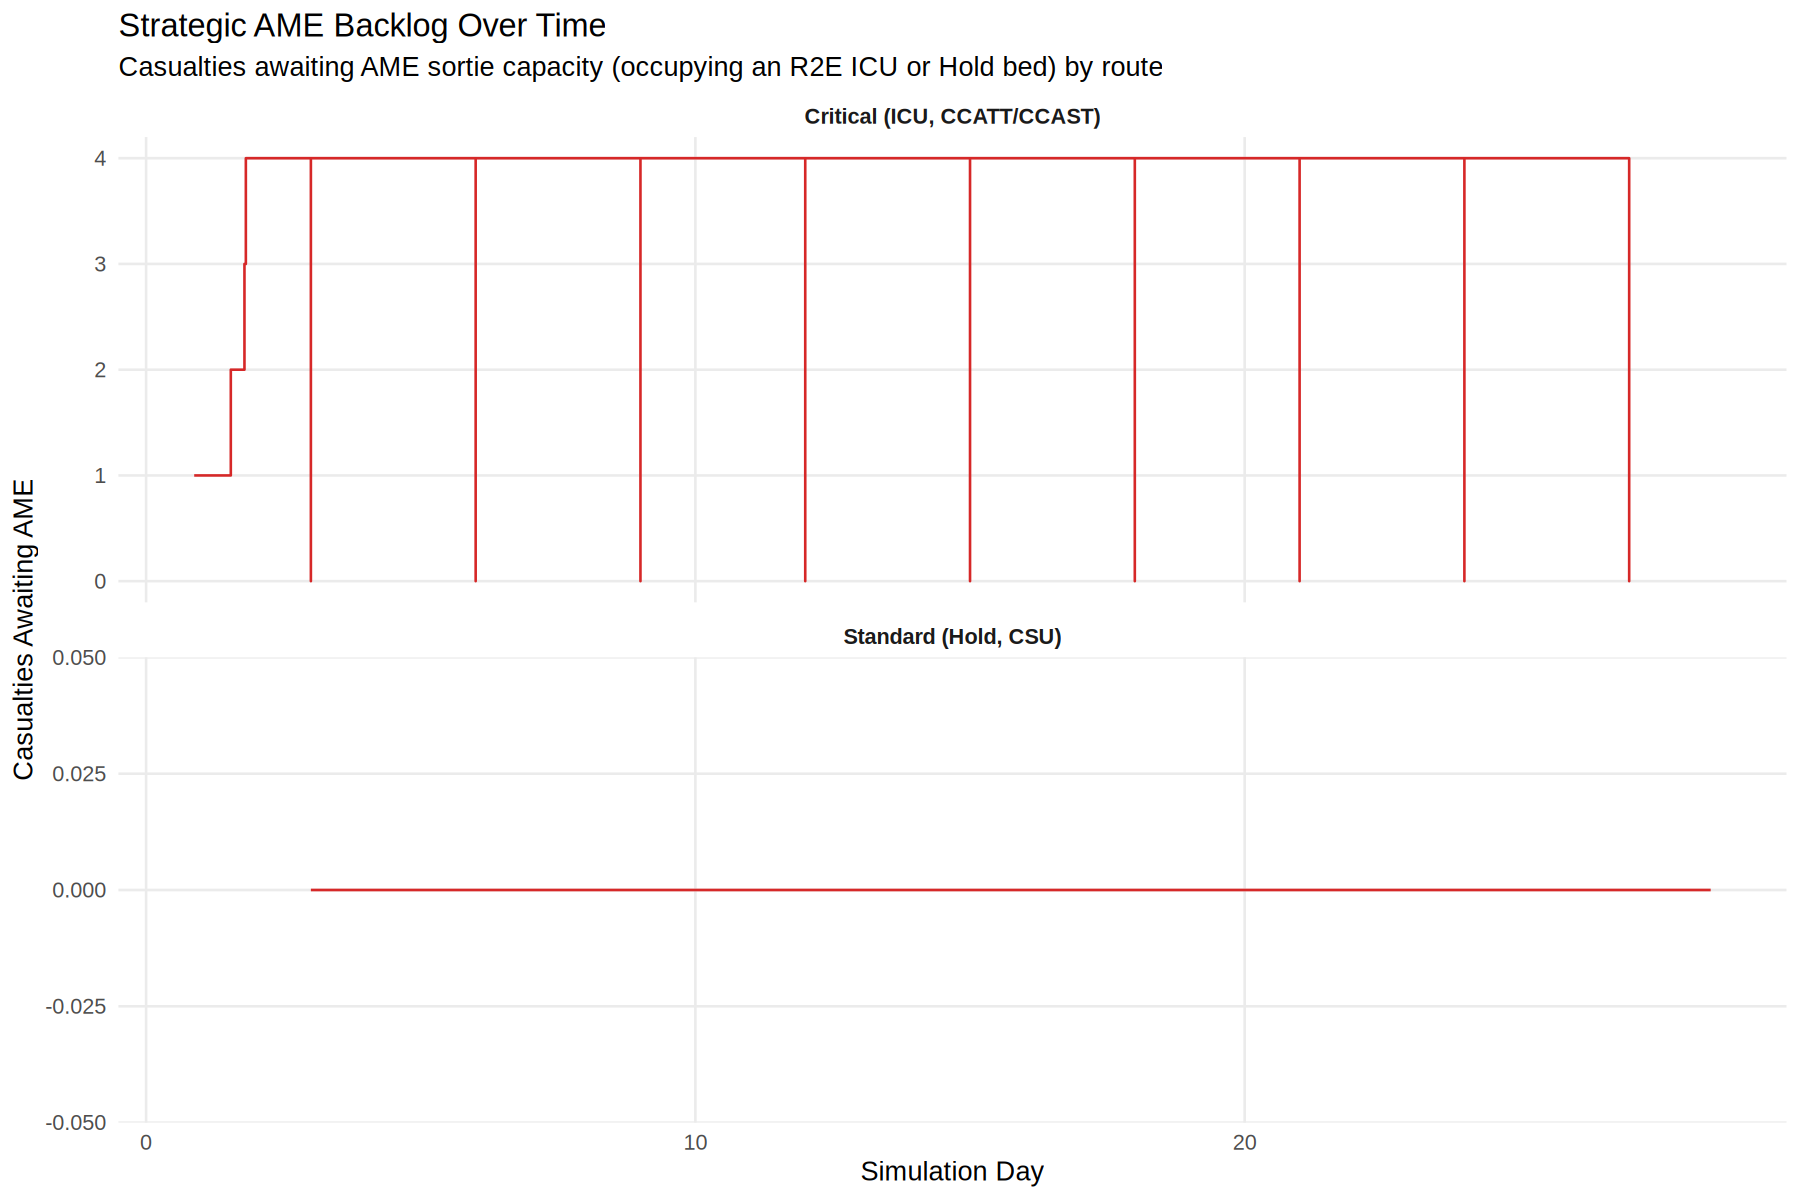
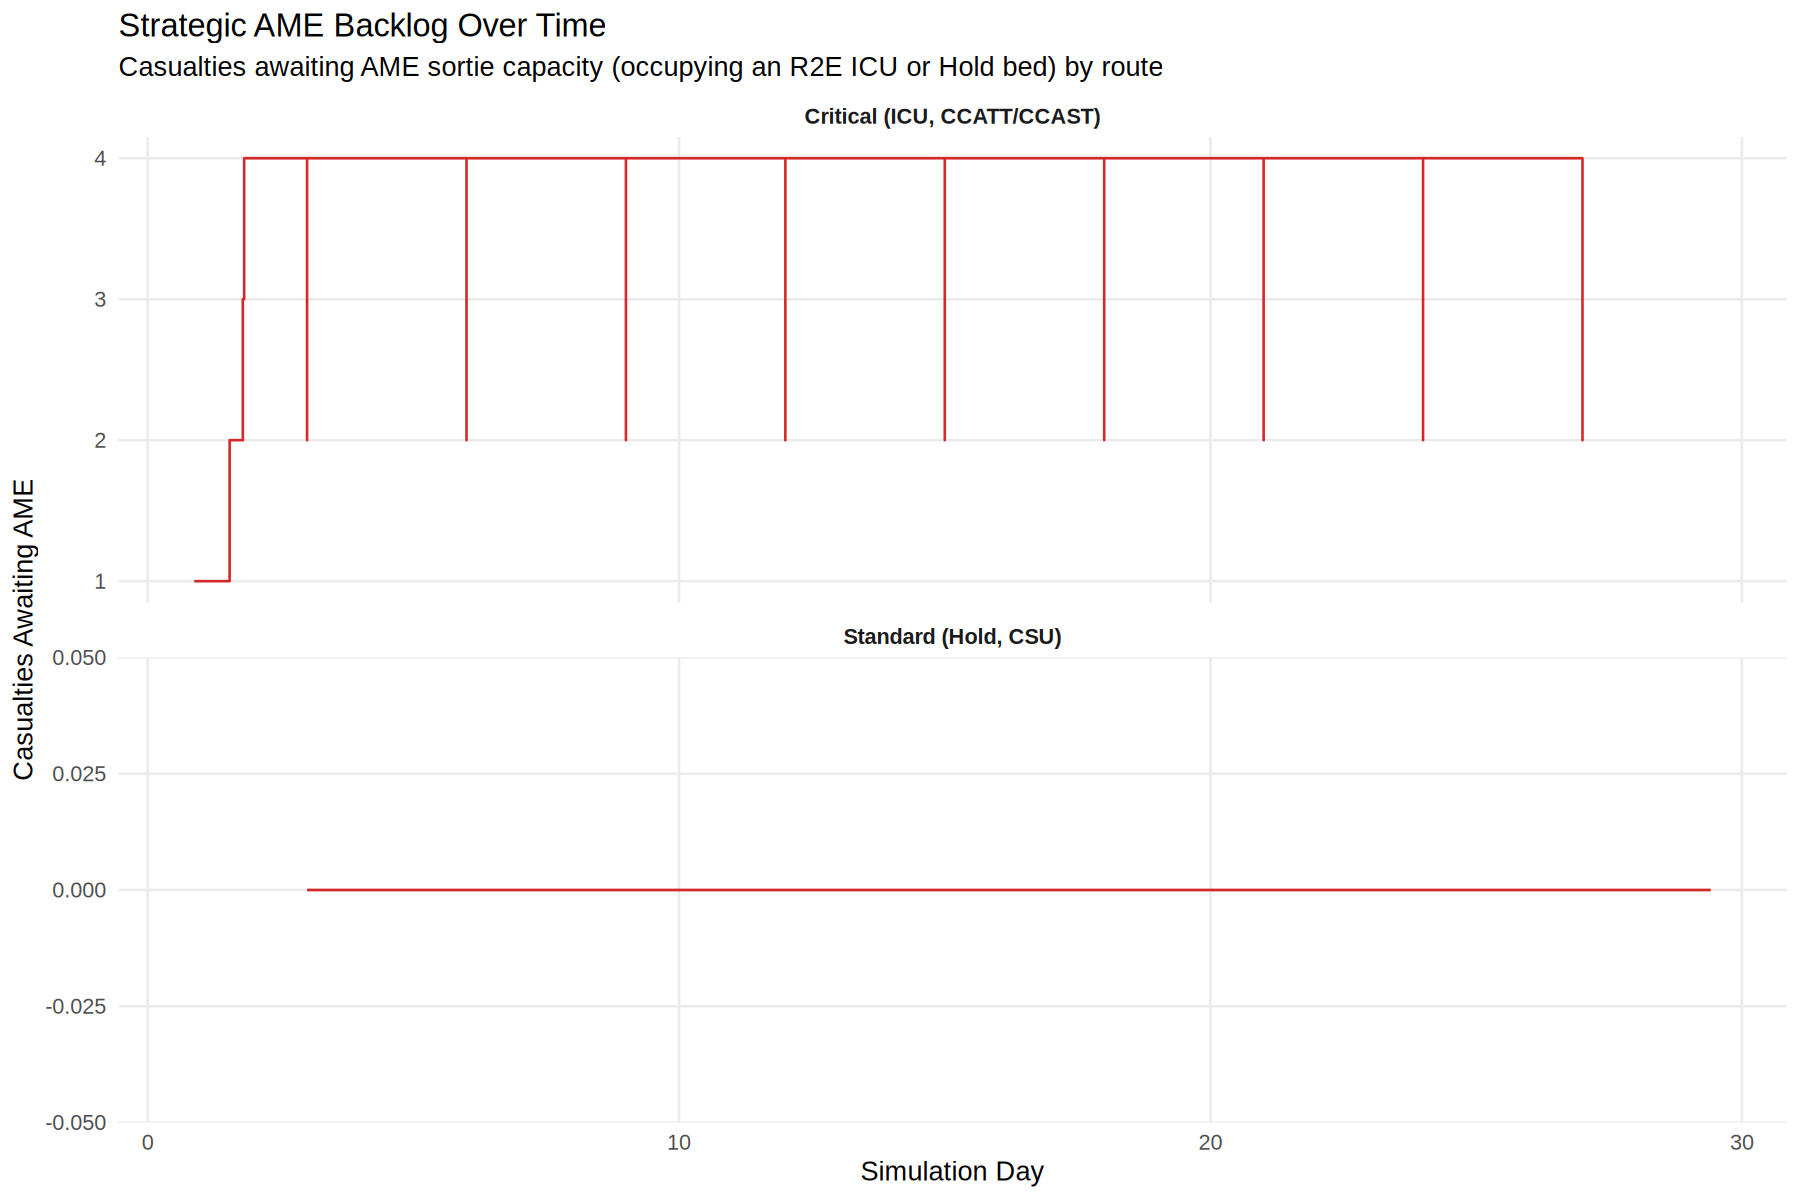
feat(issue-23): select AME aircraft configuration by backlog-minimising rule
Replaces the fixed critical/standard capacity pair with two planner-named
aircraft configurations (env_data.json vars.role4.ame_config_a/ame_config_b),
each a {critical_capacity, standard_capacity} loadout. At each scheduled
sortie, select_ame_configuration() (R/trajectories.R) flies whichever
configuration minimises total casualties left queued across both pools,
reflecting that a real sortie flies one fixed loadout rather than
independently filling both pools every time.

Exposed as four fields in the Shiny Strategic AME panel and shown on the
Medevac Chain diagram ("A=x/B=y" per leg). Seed-42 finding: Configuration A
(2 critical/8 standard) is selected at nearly every opportunity, since the
standard pool rarely backs up — this gives the critical pool a lower real
throughput (2/sortie) than the fixed single-pool design it replaced
(4/sortie), lengthening the critical-pool mean wait from 7.2 to 11.5 days.
README, Limitation L17, and Further Development updated accordingly.

Not RNG-stream-neutral: the changed capacity values alter R2E bed
occupancy timing and cascade into every subsequent draw.

diff --git a/README.md b/README.md
@@ -1448,7 +1448,9 @@ R2E has no physical Surgical Ward or General Ward bed type — only ICU and Hold
 > **Uncertainty:** High
 > **Consequence if wrong:** Peak Role 4 occupancy and total bed-days scale roughly linearly with the LoS parameters; an error in the mode values directly biases the peak occupancy estimate reported to national planners, but does not affect any theatre-level (R1/R2B/R2E) output, since Role 4 census is computed downstream of, and independent from, all in-theatre simulation logic.
 
-**Strategic AME resource — two pools sharing one schedule.** AME is available only at scheduled sortie opportunities, every `vars.role4.ame.schedule_interval_days` days (`build_ame_sortie_trajectory()`, driven by its own generator in `run_once()`, `R/replication.R`); at each opportunity the sortie is cancelled with probability `vars.role4.ame.failure_probability`. If it flies, capacity is added to *two* simmer resources at once: `"ame"` (standard, `vars.role4.ame.standard_capacity_per_sortie`) and `"ame_critical"` (`vars.role4.ame.critical_capacity_per_sortie`, a smaller pool). Casualties are routed to exactly one pool by the same acuity split that determines their R2E holding bed (see the table above): Priority 1 surgical evacuees hold an ICU bed and queue on `"ame_critical"`; everyone else holds a Hold bed and queues on `"ame"`. Both pools queue FIFO by decision order and are admitted as soon as their own pool has capacity.
+**Strategic AME resource — two pools, two aircraft configurations, one schedule.** AME is available only at scheduled sortie opportunities, every `vars.role4.ame.schedule_interval_days` days (`build_ame_sortie_trajectory()`, driven by its own generator in `run_once()`, `R/replication.R`); at each opportunity the sortie is cancelled with probability `vars.role4.ame.failure_probability`. If it flies, the planner-defined "Configuration A" (`vars.role4.ame_config_a`) or "Configuration B" (`vars.role4.ame_config_b`) — each a fixed `{critical_capacity, standard_capacity}` pair — is selected and its capacity added to the corresponding simmer resource: `"ame"` (standard) and `"ame_critical"` (critical, CCATT/CCAST-supported). Casualties are routed to exactly one pool by the same acuity split that determines their R2E holding bed (see the table above): Priority 1 surgical evacuees hold an ICU bed and queue on `"ame_critical"`; everyone else holds a Hold bed and queues on `"ame"`. Both pools queue FIFO by decision order and are admitted as soon as their own pool has capacity.
+
+**Configuration selection (Issue #23 second follow-up).** A real AME sortie flies one fixed loadout, not an arbitrary capacity pair on each pool independently — a CCATT/CCAST-augmented aircraft trades standard litter/seat slots for critical-care equipment and crew on the same airframe, so the planner defines exactly two named configurations rather than two independently-filling pools. At each scheduled opportunity, `select_ame_configuration()` (`build_ame_sortie_trajectory()`, `R/trajectories.R`) computes, for each configuration, the total casualties that would remain queued after that configuration's capacity is applied to both pools (`unmet = max(0, queue("ame_critical") - critical_capacity) + max(0, queue("ame") - standard_capacity)`), and flies whichever configuration minimises this total (ties favour Configuration A).
 
 This two-pool design, and the choice of which casualties use which bed/pool, is grounded directly in AJP-4.10(B) [[21]](#References), not an arbitrary split:
 
@@ -1457,10 +1459,15 @@ This two-pool design, and the choice of which casualties use which bed/pool, is 
 > **Uncertainty:** Medium — the CSU/CCATT-CCAST distinction itself is well-sourced; which of this model's existing patient categories maps to "already stabilised" vs "still warrants critical care" is an informed judgement (P1-surgical-only), since AJP-4.10(B) does not define that mapping in clinical-priority terms.
 > **Consequence if wrong:** If the true stabilised/critical split is narrower than "all P1 surgical" (e.g. only a subset of P1 surgical evacuees genuinely need in-transit critical care), this model overstates both ICU bed contention with post-operative recovery (Limitation L17) and critical-pool AME backlog; if broader (e.g. some P1 non-surgical or P2 evacuees also warrant it), the model understates both.
 
-> **MODEL ASSUMPTION — AME Schedule Interval, Failure Probability, and Pool Capacity Defaults:** The shipped defaults are a sortie every 3 days (`schedule_interval_days = 3`) with a 15% cancellation probability (`failure_probability = 0.15`), 20 standard-pool casualties per successful sortie (`standard_capacity_per_sortie`), and 4 critical-pool casualties per successful sortie (`critical_capacity_per_sortie`).
-> **Basis:** Informed estimation. AJP-4.10(B) [[21]](#References) establishes strategic AME, CSU staging, and CCATT/CCAST augmentation as planning functions without prescribing a specific cadence, failure rate, or per-sortie patient count for either pool — actual tasking frequency, weather/airframe cancellation rates, and CCATT/CCAST team availability are platform-, theatre-, and campaign-specific and not tabulated in any open-access source identified for this model. The critical pool is set at a fifth of the standard pool's size, reflecting that CCATT/CCAST teams are a scarcer augmentation to the standard crew rather than a like-for-like capacity, but no source quantifies the actual ratio.
+> **MODEL ASSUMPTION — AME Schedule Interval, Failure Probability, and Configuration Defaults:** The shipped defaults are a sortie every 3 days (`schedule_interval_days = 3`) with a 15% cancellation probability (`failure_probability = 0.15`), Configuration A = 2 critical/8 standard casualties per successful sortie (`ame_config_a`), and Configuration B = 0 critical/20 standard casualties per successful sortie (`ame_config_b`).
+> **Basis:** Informed estimation. AJP-4.10(B) [[21]](#References) establishes strategic AME, CSU staging, and CCATT/CCAST augmentation as planning functions without prescribing a specific cadence, failure rate, or per-sortie patient count for either configuration — actual tasking frequency, weather/airframe cancellation rates, and CCATT/CCAST team availability are platform-, theatre-, and campaign-specific and not tabulated in any open-access source identified for this model. Configuration A's critical capacity is set at a quarter of its standard capacity, reflecting that a CCATT/CCAST team is a scarcer augmentation to the standard crew rather than a like-for-like capacity, but no source quantifies the actual ratio or the total-seat trade-off between configurations.
 > **Uncertainty:** High
-> **Consequence if wrong:** The schedule interval and failure probability jointly determine both pools' backlog scale; the critical/standard capacity ratio specifically determines how much of any backlog concentrates in the critical (ICU-bed-holding) pool versus the standard pool — see the seed-42 results below, where this ratio is the direct cause of a sustained critical-pool backlog against an essentially unconstrained standard pool.
+> **Consequence if wrong:** The schedule interval and failure probability jointly determine both pools' backlog scale; the two configurations' capacity values, together with the selection rule below, determine how much of any backlog concentrates in the critical (ICU-bed-holding) pool versus the standard pool — see the seed-42 results below, where Configuration A is selected at nearly every opportunity, giving the critical pool a *lower* per-sortie throughput (2) than the single-pool design this replaced (4), and materially lengthening the critical-pool backlog as a result.
+
+> **MODEL ASSUMPTION — AME Configuration Selection Rule (Minimise Total Unmet Need):** At each scheduled sortie opportunity, the simulation flies whichever of the two planner-defined configurations leaves fewer casualties queued in total across both pools, rather than a rule proportional to either pool's backlog share or a fixed rotation between configurations.
+> **Basis:** Informed design choice, confirmed with the project owner (Issue #23 second follow-up) in preference to two alternatives considered — a backlog-proportional rule (fly whichever configuration allocates more capacity to the currently larger of the two backlogs) and a critical-priority threshold rule (always fly the critical-capable configuration while any critical casualty is queued, deferring to backlog size only once the critical queue is empty). No open-access AJP-4.10(B) or FORECAS material specifies a tasking-priority algorithm at this level of detail; the chosen rule was selected for being the most defensible throughput-based, single well-defined optimum among the alternatives.
+> **Uncertainty:** Medium — the rule itself is unambiguous and deterministic, but its emergent behaviour at the shipped configuration values is a genuine finding, not a design target: because the standard pool rarely backs up (its capacity comfortably exceeds demand under either configuration), `unmet(Configuration A)` is smaller than `unmet(Configuration B)` in almost every case where any critical casualty is queued, so Configuration A is selected at nearly every opportunity — the model does not evenly alternate between configurations the way "aircraft configuration selection" might suggest.
+> **Consequence if wrong:** A backlog-proportional or critical-priority rule would likely select Configuration A even more consistently (both bias toward flying critical capacity whenever any critical backlog exists), so this is not the more consequential choice; the shipped configuration *capacity values* (above) — not the selection rule — are the larger source of uncertainty, since Configuration A's 2-critical-seat throughput being lower than the single-pool design's fixed 4-per-sortie is what drives the longer critical-pool wait documented below.
 
 > **MODEL ASSUMPTION — AME Capacity Banking:** Unclaimed capacity from an under-subscribed sortie is not lost — it persists on the relevant pool and can be claimed by a later arrival, including between scheduled sorties, rather than being wasted the way a real aircraft's empty seats would be once it departs.
 > **Basis:** Engineering necessity, not a doctrinal claim. Casualties who board AME never release the resource (permanent consumption, matching a one-way strategic evacuation), so `"server"` (casualties ever admitted) is monotonically non-decreasing for the whole run, on both pools. Setting capacity to an *absolute* value at each sortie (rather than adding to it) would cap total-ever-admitted at that value the first time the server count reaches it — the resource would never "reopen" for a later sortie, which was caught as a bug during this section's own verification (see the test plan). Additive capacity is the only mechanism compatible with never-release semantics.
@@ -1472,7 +1479,7 @@ This two-pool design, and the choice of which casualties use which bed/pool, is 
 > **Uncertainty:** Medium — lower than the original single-pool design, since the split itself now captures the main acuity distinction doctrine describes.
 > **Consequence if wrong:** Any further within-pool prioritisation (e.g. by wait time already accrued, or by finer clinical grading) would redistribute wait time within a pool without changing that pool's aggregate throughput or backlog.
 
-**Unconstrained-baseline AME demand.** `compute_ame_demand()` (`R/analysis.R`) is retained as a separate, deliberately *unconstrained* comparison against combined standard + critical throughput: `sorties_required = ceiling(daily_evacuation_count / (standard_capacity_per_sortie + critical_capacity_per_sortie))`, grouped by `evacuation_decision_day` (not the schedule-gated `evacuation_day`) — i.e. "how many sorties would same-day, uncapped AME need to clear each day's decisions," without distinguishing pool. Comparing this single aggregate baseline against the real constrained resources' actual, route-decomposed throughput (`ame_wait_time_summary`, `ame_backlog_plot` — see Domain 7 below) is what makes each pool's adequacy (or inadequacy) visible — including cases like the seed-42 baseline where the aggregate baseline looks entirely reasonable while one pool is badly saturated.
+**Unconstrained-baseline AME demand.** `compute_ame_demand()` (`R/analysis.R`) is retained as a separate, deliberately *unconstrained* comparison against the larger of the two configurations' combined standard + critical throughput: `sorties_required = ceiling(daily_evacuation_count / max(config_a_total, config_b_total))`, grouped by `evacuation_decision_day` (not the schedule-gated `evacuation_day`) — i.e. "how many sorties would same-day, uncapped, best-case AME need to clear each day's decisions," without distinguishing pool or which configuration actually flew. Comparing this single aggregate baseline against the real constrained resources' actual, route-decomposed throughput (`ame_wait_time_summary`, `ame_backlog_plot` — see Domain 7 below) is what makes each pool's adequacy (or inadequacy) visible — including cases like the seed-42 baseline where the aggregate baseline looks entirely reasonable while one pool is badly saturated.
 
 **Multi-run aggregation.** When `analyse_run()` is called with multi-replication monitoring data (Issue #1 framework), peak Role 4 occupancy and the unconstrained-baseline total sortie count are additionally summarised as mean ± 95% CI across replications (`role4_replication_summary`, `ame_replication_summary`), using the same t-distribution CI convention as `summarise_replications()` (`R/replication.R`).
 
@@ -1604,7 +1611,7 @@ The simulation produces a defined set of Key Performance Indicators (KPIs) organ
 > Daily and cumulative strategic aeromedical evacuation sortie requirements *if* AME had same-day, uncapped capacity — a theoretical comparison baseline, not a prediction of actual throughput (see the real constrained-resource outputs below).
 > **Doctrinal basis:** AJP-4.10 [[21]](#References) strategic evacuation planning function.
 > **Criteria:** C2, C4, C5
-> **Computation:** `sorties_required = ceiling(daily_evacuation_count / ame_capacity)` grouped by `evacuation_decision_day`, where `ame_capacity` is combined standard + critical throughput (`env_data$vars$role4$ame$standard_capacity_per_sortie + critical_capacity_per_sortie`); `cumulative_sorties = cumsum(sorties_required)`.
+> **Computation:** `sorties_required = ceiling(daily_evacuation_count / ame_capacity)` grouped by `evacuation_decision_day`, where `ame_capacity` is the larger of the two configurations' combined standard + critical throughput (`max(ame_config_a$critical_capacity + ame_config_a$standard_capacity, ame_config_b$critical_capacity + ame_config_b$standard_capacity)`); `cumulative_sorties = cumsum(sorties_required)`.
 > **Note:** A derived planning metric, not a simulated resource constraint.
 
 > **MODEL OUTPUT — Strategic AME Wait Time (by Route):**
@@ -1859,23 +1866,25 @@ At `high_intensity` casualty rates, the mechanism is unambiguous: daily volume f
 
 ### Strategic Evacuation and Role 4 Demand
 
-This section presents the seed-42 30-day single-run Role 4 (national support base) and strategic AME outputs (Issue #23 and its follow-ups; see [Role 4 (National Support Base) Demand Modelling](#role-4-national-support-base-demand-modelling)). Of the 387 total casualties generated, 126 reached the strategic evacuation decision (`r2e_evac = 1`); of those, 75 had actually boarded an AME sortie and reached Role 4 by the end of the 30-day run, with 51 still queued and occupying an R2E bed.
+This section presents the seed-42 30-day single-run Role 4 (national support base) and strategic AME outputs, under the two-configuration AME sortie model (Issue #23 and its follow-ups; see [Role 4 (National Support Base) Demand Modelling](#role-4-national-support-base-demand-modelling)). Of the 385 total casualties generated, 134 reached the strategic evacuation decision (`r2e_evac = 1`); of those, 63 had actually boarded an AME sortie and reached Role 4 by the end of the 30-day run, with 71 still queued and occupying an R2E bed.
 
 ![Role 4 (National Support Base) Daily Bed Occupancy by Ward](images/role4_census.png)
 
-Daily Role 4 bed occupancy rises through the engagement window, reaching a peak of 42 concurrent patients (all wards combined) on day 29, and — unlike a fully-cleared run — has not yet decayed to zero within the window shown, since a substantial share of demand (the critical-route ICU population) is still backlogged at R2E rather than having reached Role 4 at all; the long tail out to ~day 57 reflects the trickle of critical-route casualties who do eventually board, each carrying their own subsequent Role 4 length of stay.
+Daily Role 4 bed occupancy rises through the engagement window, reaching a peak of 27.0 concurrent patients (all wards combined) on day 22, and — unlike a fully-cleared run — has not yet decayed to zero within the window shown, since a substantial share of demand (the critical-route ICU population) is still backlogged at R2E rather than having reached Role 4 at all.
 
 ![Strategic AME Backlog Over Time by Route](images/ame_backlog.png)
 
-The two-pool split (see [Role 4 (National Support Base) Demand Modelling](#role-4-national-support-base-demand-modelling)) reveals a result the earlier single-pool model could not: **demand is comfortably met on the standard pool and persistently unmet on the critical pool.** Of the 126 evacuation decisions, 87 route to the critical (Priority 1 surgical) pool and 39 to the standard pool. Standard-pool wait is effectively zero (mean 0.0 days, all 39 evacuated with no backlog ever forming) — the shipped 20-casualty standard capacity, refreshed every ~3.5 successful sorties (9 of 10 scheduled opportunities flew at the 15% failure rate) against 39 total demand, clears almost immediately and then banks ahead of demand for the rest of the run (see MODEL ASSUMPTION — AME Capacity Banking). The critical pool tells the opposite story: only 36 of 87 decisions had boarded by day 30 (51 still waiting), mean wait among those who did board was 7.2 days (p10–p90: 2.8–11.7 days), and the backlog plot above shows the critical pool pinned at its 4-casualty capacity ceiling for nearly the entire run, clearing briefly only right after a successful sortie before refilling. The unconstrained theoretical baseline — same-day, uncapped AME at combined 24-casualty capacity — would have needed only 30 total sorties across the whole run; the real schedule flew 9 sorties, i.e. aggregate capacity (9 × 24 = 216) vastly exceeds aggregate demand (126), yet a real bottleneck persists entirely because of how that capacity is split between the two pools. This is the direct, intended payoff of decomposing AME by route rather than reporting one aggregate throughput figure.
+The two-pool split (see [Role 4 (National Support Base) Demand Modelling](#role-4-national-support-base-demand-modelling)) reveals a result an undifferentiated pool could not: **demand is comfortably met on the standard pool and persistently unmet on the critical pool.** Of the 134 evacuation decisions, 89 route to the critical (Priority 1 surgical) pool and 45 to the standard pool. Standard-pool wait is effectively zero (mean 0.0 days, all 45 evacuated with no backlog ever forming) — the shipped configurations both carry substantial standard capacity (8 or 20 per sortie) against 45 total demand, so it clears almost immediately and then banks ahead of demand for the rest of the run (see MODEL ASSUMPTION — AME Capacity Banking). The critical pool tells the opposite story: only 18 of 89 decisions had boarded by day 30 (71 still waiting), mean wait among those who did board was 11.5 days (p10–p90: 3.6–19.0 days).
 
-A second, non-obvious effect of the two-pool model: because critical-pool-awaiting casualties hold a real R2E ICU bed for as long as 7+ days on average, they compete directly with R2E's own post-operative ICU recovery population for the same finite bed pool (Issue #43's OT–ICU gating). At the seed-42 baseline this pushes R2E's post-operative pathway split sharply toward the hold-bed override path: `hold=91`, `icu=4` (compare to the documented pre-follow-up baseline in `CLAUDE.md`: `icu=110`, `hold=14`) — with the sustained critical-pool backlog occupying nearly all available ICU beds, almost no post-operative patient can complete the nominal ICU recovery pathway, and 30 surgeries were deferred pending ICU availability against a pre-follow-up baseline of essentially none. See the note below on why this is not a regression, and Limitation L17 for the systemic-coupling consequence.
+The configuration-selection mechanism (see MODEL ASSUMPTION — AME Configuration Selection Rule) is directly responsible for this result, and is itself the most important finding of this follow-up: `select_ame_configuration()` chose **Configuration A (2 critical/8 standard) at essentially every one of the 9 successful sorties**, because the standard pool's backlog never exceeds 8 (so `unmet(A)` and `unmet(B)` are equal on the standard term) while the critical pool's backlog is persistently positive (so `unmet(A) < unmet(B)` by exactly 2 on the critical term) — Configuration B (0 critical/20 standard) was never selected in this run. The practical consequence is that the critical pool's real per-sortie throughput (2) is *lower* than the fixed single-pool design this replaced (4 critical/sortie), even though the planner's Configuration A explicitly provisions critical-care lift on every flyable sortie — a genuinely realistic "one airframe, one loadout" constraint (Configuration A cannot simultaneously carry Configuration B's extra 12 standard seats) produces a *worse* critical-pool wait than the doctrinally-looser "both pools fill every sortie" design it replaced. The unconstrained theoretical baseline — same-day, uncapped, best-case AME at 20-casualty capacity (Configuration B's total, the larger of the two) — would have needed only 30 total sorties across the whole run; the real schedule flew 9 sorties at Configuration A's 10-seat total (90 aggregate seats) against 134 aggregate demand, a materially tighter margin than the single-pool design's previous 216-seat aggregate. This is the direct, intended payoff of decomposing AME by route and by configuration rather than reporting one aggregate throughput figure.
 
-As a directional check on the acceptance criterion that Role 4 load should respond correctly to theatre medical policy, re-running the same seed-42 30-day configuration with `r2eheavy.recovery.in_theatre_rate` raised from the shipped 0.1 to 0.5 (i.e. materially more casualties recovering in theatre rather than being strategically evacuated) reduces casualties reaching Role 4 from 75 to 61 and peak Role 4 occupancy from 42 to 35 — confirming that increasing in-theatre recovery capacity reduces Role 4 load, in the expected direction, with the two-pool AME resource now in the loop. This comparison run is illustrative only and does not alter the documented `in_theatre_rate = 0.1` baseline.
+A second, non-obvious effect of the two-pool model: because critical-pool-awaiting casualties hold a real R2E ICU bed for as long as 11+ days on average, they compete directly with R2E's own post-operative ICU recovery population for the same finite bed pool (Issue #43's OT–ICU gating). At the seed-42 baseline this pushes R2E's post-operative pathway split sharply toward the hold-bed override path: `hold=96`, `icu=4` (compare to the documented pre-follow-up baseline in `CLAUDE.md`: `icu=110`, `hold=14`) — with the sustained critical-pool backlog occupying nearly all available ICU beds, almost no post-operative patient can complete the nominal ICU recovery pathway, and 17 surgeries were deferred pending ICU availability against a pre-follow-up baseline of essentially none. See the note below on why this is not a regression, and Limitation L17 for the systemic-coupling consequence.
+
+As a directional check on the acceptance criterion that Role 4 load should respond correctly to theatre medical policy, re-running the same seed-42 30-day configuration with `r2eheavy.recovery.in_theatre_rate` raised from the shipped 0.1 to 0.5 (i.e. materially more casualties recovering in theatre rather than being strategically evacuated) reduces casualties reaching Role 4 from 63 to 42 and peak Role 4 occupancy from 27.0 to 19.0 — confirming that increasing in-theatre recovery capacity reduces Role 4 load, in the expected direction, with the two-configuration AME resource now in the loop. This comparison run is illustrative only and does not alter the documented `in_theatre_rate = 0.1` baseline.
 
 > **Reproducibility note:** the figures above were produced in an ad hoc R 4.3.3 sandbox (not the project's pinned `rocker/rstudio:4.4.2` Dev Container), following the same practice and caveat used for prior unpinned-sandbox figures in this project (see the `CLAUDE.md` Key Parameters provenance caveat).
 >
-> Unlike the original Issue #23 attribute-capture work (RNG-stream-neutral), the AME follow-up work in this section **is not RNG-stream-neutral**: the periodic AME sortie generator (`build_ame_sortie_trajectory()`) draws a `runif()` per scheduled sortie opportunity, interleaved in event time with casualty trajectory execution, and casualties now hold R2E ICU/Hold beds for a variable AME wait rather than releasing them (or never seizing them) instantly — both change downstream RNG draw timing and resource contention for the rest of the run, and even total casualty count is affected here (386 → 387) since Issue #18's force-regeneration feedback loop couples arrival timing to casualty-event timing. Every seed-42 KPI printed by this run downstream of R2E disposition differs from the documented post-Issue-18 baseline in `CLAUDE.md` (e.g. R2B pre-bypass 112 → 109, R2B OT bypass team-off-shift 61 → 62, R2E post-op pathway icu=110/hold=14 → icu=4/hold=91); most pre-R2E-disposition figures are close to but not exactly the documented baseline, consistent with the RNG-stream-shift pattern already documented for prior merges (Issue #43, #73, #76, #18). A maintainer re-run in the pinned container, and a `CLAUDE.md` Key Parameters table refresh, are needed before these figures are fully authoritative — see the Post-Merge Checklist in `CLAUDE.md`.
+> Unlike the original Issue #23 attribute-capture work (RNG-stream-neutral), the AME follow-up work in this section **is not RNG-stream-neutral**: the periodic AME sortie generator (`build_ame_sortie_trajectory()`) draws a `runif()` per scheduled sortie opportunity, interleaved in event time with casualty trajectory execution, and casualties now hold R2E ICU/Hold beds for a variable AME wait rather than releasing them (or never seizing them) instantly — both change downstream RNG draw timing and resource contention for the rest of the run, and even total casualty count is affected here (387 → 385) since Issue #18's force-regeneration feedback loop couples arrival timing to casualty-event timing. The second AME follow-up (this section's configuration-selection redesign) is a further, independent RNG-stream shift on top of the first: `select_ame_configuration()` reads current queue sizes but draws no new random numbers itself, so the shift comes entirely from the changed *capacity values themselves* altering when and which casualties clear R2E beds, which cascades into every subsequent draw. Every seed-42 KPI printed by this run downstream of R2E disposition differs from the documented post-Issue-18 baseline in `CLAUDE.md` (e.g. R2E post-op pathway icu=110/hold=14 → icu=4/hold=96); most pre-R2E-disposition figures are close to but not exactly the documented baseline, consistent with the RNG-stream-shift pattern already documented for prior merges (Issue #43, #73, #76, #18). A maintainer re-run in the pinned container, and a `CLAUDE.md` Key Parameters table refresh, are needed before these figures are fully authoritative — see the Post-Merge Checklist in `CLAUDE.md`.
 
 ### Comparative Scenario Analysis
 
@@ -1949,7 +1958,7 @@ DOW probability is now modelled as a time-dependent shifted logistic function of
 Resources are seized as whole team vectors at R2B. A second casualty cannot use any team member even when the first casualty requires only a subset of skills. At R2E, the trajectory seizes OT bed resources but does not seize the surgical team; the R2E team schedule therefore has no operative effect on surgical timing, and R2E surgery can proceed at any hour regardless of whether the team is nominally on shift. Skill-specific bottlenecks (surgeon vs. anaesthetist vs. nursing officer) and task-sharing under surge conditions are invisible. OT utilisation KPIs understate true contention, and R2E surgical throughput is overstated until team seizure is implemented. **Impact: High.** Addressed in Issue #4 (individual resource seizure refactor).
 
 **L17 — Critical-Pool AME-Awaiting Casualties Compete for R2E ICU Beds with Post-Operative Recovery (High Impact on R2E ICU/OT-Gating Capacity Findings at the Shipped AME Configuration)**
-Because critical-pool AME-awaiting casualties occupy a real R2E ICU bed for the duration of their wait (Issue #23 follow-up — see [Role 4 (National Support Base) Demand Modelling](#role-4-national-support-base-demand-modelling)), they compete for the same finite bed pool as the OT–ICU gating mechanism's post-operative recovery patients (Issue #43; see [Died of Wounds — Post-Operative Checkpoint](#died-of-wounds)). At the shipped seed-42 baseline, where the critical AME pool is persistently saturated (mean 7.2-day wait, backlog pinned at its 4-casualty ceiling for nearly the entire run — see [Strategic Evacuation and Role 4 Demand](#strategic-evacuation-and-role-4-demand)), this is not a modest effect: the R2E post-operative pathway split moves from the documented pre-follow-up baseline (`icu`=110, `hold`=14, `CLAUDE.md`) to `icu`=4, `hold`=91, and 30 surgeries were deferred pending ICU availability against essentially none pre-follow-up. This is a genuine, intended emergent interaction — not a bug — reflecting the reality that a casualty awaiting strategic evacuation still occupies theatre medical capacity, which was the explicit motivation for this work; the two-pool acuity split (this issue's second follow-up) was itself adopted specifically because an undifferentiated single AME pool both overstated ICU contention (routing all Priority 1 surgical evacuees through ICU-bed-holding regardless of real transport-capacity constraints) and hid the genuinely scarce critical-care transport bottleneck the two-pool split now makes visible. It was accepted as a deliberate design trade-off in preference to a separate, dedicated AME-holding bed pool (which would avoid the ICU coupling but require a new resource type not grounded in any established R2E establishment structure). **Impact: High** at the shipped configuration specifically, where critical-pool capacity (4/sortie) is undersized relative to critical-pool demand (87 of 126 seed-42 decisions route to it) — any existing or future R2E ICU/OT-gating capacity finding (Domain 3, Domain 4) computed with strategic evacuation enabled must now be read alongside the Role 4/AME outputs (Domain 7), not in isolation, since the two are no longer independent. A better-matched `critical_capacity_per_sortie` (or shorter `schedule_interval_days`) would reduce this coupling; the shipped default was not tuned to avoid it, since demonstrating a genuine bottleneck honestly is more valuable than parameterising it away.
+Because critical-pool AME-awaiting casualties occupy a real R2E ICU bed for the duration of their wait (Issue #23 follow-up — see [Role 4 (National Support Base) Demand Modelling](#role-4-national-support-base-demand-modelling)), they compete for the same finite bed pool as the OT–ICU gating mechanism's post-operative recovery patients (Issue #43; see [Died of Wounds — Post-Operative Checkpoint](#died-of-wounds)). At the shipped seed-42 baseline, where the critical AME pool is persistently saturated (mean 11.5-day wait — see [Strategic Evacuation and Role 4 Demand](#strategic-evacuation-and-role-4-demand)), this is not a modest effect: the R2E post-operative pathway split moves from the documented pre-follow-up baseline (`icu`=110, `hold`=14, `CLAUDE.md`) to `icu`=4, `hold`=96, and 17 surgeries were deferred pending ICU availability against essentially none pre-follow-up. This is a genuine, intended emergent interaction — not a bug — reflecting the reality that a casualty awaiting strategic evacuation still occupies theatre medical capacity, which was the explicit motivation for this work; the two-pool acuity split (this issue's second follow-up) was itself adopted specifically because an undifferentiated single AME pool both overstated ICU contention (routing all Priority 1 surgical evacuees through ICU-bed-holding regardless of real transport-capacity constraints) and hid the genuinely scarce critical-care transport bottleneck the two-pool split now makes visible. It was accepted as a deliberate design trade-off in preference to a separate, dedicated AME-holding bed pool (which would avoid the ICU coupling but require a new resource type not grounded in any established R2E establishment structure). **Impact: High** at the shipped configuration specifically, where the configuration-selection mechanism (a third Issue #23 follow-up) settles on Configuration A's 2-critical-seat throughput at nearly every sortie — *lower* than the single-pool design's previous fixed 4/sortie — against critical-pool demand (89 of 134 seed-42 decisions route to it) — any existing or future R2E ICU/OT-gating capacity finding (Domain 3, Domain 4) computed with strategic evacuation enabled must now be read alongside the Role 4/AME outputs (Domain 7), not in isolation, since the two are no longer independent. A configuration pair with more critical capacity, a third configuration weighted more heavily toward critical lift, or a shorter `schedule_interval_days`, would each reduce this coupling; the shipped defaults were not tuned to avoid it, since demonstrating a genuine bottleneck honestly is more valuable than parameterising it away.
 
 ### Medium Impact
 
@@ -1978,7 +1987,7 @@ The Priority 1 override threshold, the post-op hold penalty multiplier (3.0), an
 The `moderate_intensity` scenario profile (Issue #54, see [Scenario Profiles](#scenario-profiles)) reproduces a KIA:WIA ratio of 0.452 across 30 replications, against the published 255 KIA : 777 WIA (0.328) South Atlantic campaign record [[43]](#References). This ratio is a pre-existing characteristic of the base `generators.wia_cbt`/`generators.kia_cbt` casualty generation rates (FORECAS Table A.8 [[8]](#References), calibrated under Issue #1) combined with the lognormal-cap generation mechanism ([Casualty Generation](#casualty-generation)); it is not introduced or corrected by Issue #54, which overrides only the DOW ceiling and treatment efficacy factors. Separately, the `high_intensity` profile is an explicitly unvalidated demonstration skeleton: only casualty generation rates and distribution family are sourced (FORECAS Tables A.7/A.9 [[8]](#References)); DOW ceiling, treatment efficacy, priority distribution, DNBI composition, and transport times are inherited from the Falklands-calibrated base rather than sourced for the Okinawa context. No Vietnam-calibrated profile exists in this project: FORECAS's Appendix A has no standalone Vietnam combat-troop WIA/KIA distribution table (only a DNBI table), so no genuinely FORECAS-sourced Vietnam parameters could be identified — a Vietnam scenario should wait for a source that actually tabulates it rather than being estimated without one. **Impact: Medium.** The DOW rate — the parameter Issue #54 is responsible for — is well within tolerance of its historical target; the KIA:WIA discrepancy, the `high_intensity` skeleton's incompleteness, and the absence of a sourced Vietnam profile would need to be addressed by a future issue (most likely Issue #10) revisiting the casualty generator calibration or completing a fully validated `high_intensity` scenario profile.
 
 **L16 — Role 4 Modelled as Unconstrained Demand; Within-Pool Boarding Priority and Wait-Time Mortality Not Modelled (Medium Impact on Strategic Evacuation Outputs)** *(Partially resolved — Issue #23 follow-ups)*
-Role 4 (the national support base) is still computed as a post-simulation calculation over the evacuation event log (`compute_role4_census()`), not as a simmer resource with finite capacity — Role 4 bed occupancy can exceed any real-world national support base's actual bed count without producing a queue, deferral, or any other capacity-constrained behaviour; the output is a demand *signal* for national planners, not a validated statement that the national support base can absorb that demand. Strategic AME, however, *is* now a constrained, scheduled, two-pool simmer resource with a doctrinally-grounded critical/standard acuity split (see [Role 4 (National Support Base) Demand Modelling](#role-4-national-support-base-demand-modelling)), so the remaining gaps are narrower than originally scoped: (1) no *within-pool* boarding priority is modelled beyond the critical/standard split itself — casualties board strictly FIFO by decision order within their pool (MODEL ASSUMPTION — AME Boarding Order); (2) no additional DOW risk is modelled while a casualty is queued awaiting AME — the R2E post-operative DOW checkpoint (`dow_echelon == 4`) fires once, before the Strategic Evac disposition, and no further mortality check occurs however long the subsequent AME wait is; this is optimistic, and materially so for the critical pool specifically, where the seed-42 baseline shows a mean 7.2-day wait among casualties who are, by this model's own routing logic, the most severely injured (see [Strategic Evacuation and Role 4 Demand](#strategic-evacuation-and-role-4-demand)); (3) unclaimed sortie capacity "banks" forward on both pools rather than being wasted (MODEL ASSUMPTION — AME Capacity Banking), a simplification with no real-world analogue; (4) the LoS category/ward mapping, LoS distribution parameters, and the AME schedule interval/failure probability/pool capacity defaults are all informed estimates rather than literature-extracted values (see the MODEL ASSUMPTION blocks in the Role 4 sub-section). **Impact: Medium.** The demand *signal* (relative magnitude and timing of Role 4 load, its route-decomposed backlog behaviour, and its correct-direction response to theatre-level policy changes such as `in_theatre_rate`) is the feature's intended contribution and is unaffected by these gaps; an absolute capacity-adequacy claim about the national support base, a wait-time mortality estimate, or a finer-grained evacuation prioritisation policy comparison would each require further modelling this section deliberately does not implement (see Further Development).
+Role 4 (the national support base) is still computed as a post-simulation calculation over the evacuation event log (`compute_role4_census()`), not as a simmer resource with finite capacity — Role 4 bed occupancy can exceed any real-world national support base's actual bed count without producing a queue, deferral, or any other capacity-constrained behaviour; the output is a demand *signal* for national planners, not a validated statement that the national support base can absorb that demand. Strategic AME, however, *is* now a constrained, scheduled, two-pool simmer resource with a doctrinally-grounded critical/standard acuity split and a planner-defined, backlog-minimising choice between two aircraft configurations (see [Role 4 (National Support Base) Demand Modelling](#role-4-national-support-base-demand-modelling)), so the remaining gaps are narrower than originally scoped: (1) no *within-pool* boarding priority is modelled beyond the critical/standard split itself — casualties board strictly FIFO by decision order within their pool (MODEL ASSUMPTION — AME Boarding Order); (2) no additional DOW risk is modelled while a casualty is queued awaiting AME — the R2E post-operative DOW checkpoint (`dow_echelon == 4`) fires once, before the Strategic Evac disposition, and no further mortality check occurs however long the subsequent AME wait is; this is optimistic, and materially so for the critical pool specifically, where the seed-42 baseline shows a mean 11.5-day wait among casualties who are, by this model's own routing logic, the most severely injured (see [Strategic Evacuation and Role 4 Demand](#strategic-evacuation-and-role-4-demand)); (3) unclaimed sortie capacity "banks" forward on both pools rather than being wasted (MODEL ASSUMPTION — AME Capacity Banking), a simplification with no real-world analogue; (4) the LoS category/ward mapping, LoS distribution parameters, the AME schedule interval/failure probability/configuration capacity defaults, and the configuration-selection rule itself, are all informed estimates or design choices rather than literature-extracted values (see the MODEL ASSUMPTION blocks in the Role 4 sub-section); (5) exactly two aircraft configurations are supported — a planner cannot define a third loadout, or a time-varying preference between configurations (e.g. more critical-heavy sorties during an anticipated surge). **Impact: Medium.** The demand *signal* (relative magnitude and timing of Role 4 load, its route-decomposed backlog behaviour, and its correct-direction response to theatre-level policy changes such as `in_theatre_rate`) is the feature's intended contribution and is unaffected by these gaps; an absolute capacity-adequacy claim about the national support base, a wait-time mortality estimate, or a finer-grained evacuation prioritisation policy comparison would each require further modelling this section deliberately does not implement (see Further Development).
 
 ### Low Impact
 
@@ -2014,7 +2023,7 @@ The single run analysis has demonstrated that while the current simulation frame
 
 Dead-heading return legs for pooled transport assets are now modelled (Issue #6; see Transport Assets — Dead-Heading Return Legs), and a fleet-size capacity margin sweep is now implemented (Issue #57; see [Transport Fleet Capacity Margin](#transport-fleet-capacity-margin)), quantifying how much margin the current establishment carries and at what fleet size the transport layer becomes a binding constraint. That sweep is run at the Falklands-derived casualty rate only. The immediate follow-on opportunity is to re-run it under Vietnam/Okinawa-intensity casualty rates (Issue #10; see [Comparative Scenario Analysis](#comparative-scenario-analysis)) and under mass casualty injection (Issue #9; see [Mass Casualty Event Stress Test](#mass-casualty-event-stress-test)), where the demand side of the margin is materially higher and the current always-large-margin finding may not hold — `plot_transport_capacity_margin_by_fleet_size()`'s `path` parameter allows sweeping against an env_data.json pre-configured for either scenario, but does not yet accept a scenario name directly.
 
-Pulsing strategic medical evacuation availability to simulate its temporal constraints is now implemented (Issue #23 follow-ups; see [Role 4 (National Support Base) Demand Modelling](#role-4-national-support-base-demand-modelling)): strategic AME is a scheduled, two-pool, capacity-limited, failure-prone simmer resource rather than continuously available lift, with casualties occupying real R2E beds while queued — the critical/standard pool split (grounded in AJP-4.10(B)'s Casualty Staging Unit and CCATT/CCAST concepts) already captures the model's main acuity-based prioritisation. Follow-ups remain, tracked in Limitation L16: *within*-pool boarding priority (currently strict FIFO once the critical/standard split has applied) and DOW risk while awaiting a sortie (currently none — the post-operative DOW checkpoint fires once, before the wait begins, which is a materially optimistic gap given the critical pool's multi-day mean wait at the shipped baseline). Role 4 (the national support base hospital itself) remains modelled as unconstrained demand — see Limitation L16. The critical-pool/post-operative-ICU bed coupling this design introduces (Limitation L17) is itself a candidate for a future dedicated AME-holding bed pool, should the coupling prove undesirable for a given planning question.
+Pulsing strategic medical evacuation availability to simulate its temporal constraints is now implemented (Issue #23 follow-ups; see [Role 4 (National Support Base) Demand Modelling](#role-4-national-support-base-demand-modelling)): strategic AME is a scheduled, two-pool, capacity-limited, failure-prone simmer resource rather than continuously available lift, with casualties occupying real R2E beds while queued — the critical/standard pool split (grounded in AJP-4.10(B)'s Casualty Staging Unit and CCATT/CCAST concepts) already captures the model's main acuity-based prioritisation, and the planner now chooses between two named aircraft configurations rather than fixing a single per-pool capacity pair, with the simulation selecting whichever configuration minimises total unmet need at each scheduled opportunity. Follow-ups remain, tracked in Limitation L16: *within*-pool boarding priority (currently strict FIFO once the critical/standard split has applied); DOW risk while awaiting a sortie (currently none — the post-operative DOW checkpoint fires once, before the wait begins, which is a materially optimistic gap given the critical pool's multi-day mean wait at the shipped baseline); and support for more than two configurations or a time-varying configuration preference (e.g. tasking more critical-heavy sorties during an anticipated surge window). Role 4 (the national support base hospital itself) remains modelled as unconstrained demand — see Limitation L16. The critical-pool/post-operative-ICU bed coupling this design introduces (Limitation L17) is itself a candidate for a future dedicated AME-holding bed pool, should the coupling prove undesirable for a given planning question; the shipped default configurations (2 critical/8 standard vs 0 critical/20 standard) also demonstrate that the mutually-exclusive-loadout redesign can produce a *worse* critical-pool wait than the fixed-pair design it replaced, so retuning the configuration capacities is a more immediate lever than the coupling itself for a planner concerned specifically with critical-pool throughput.
 
 Model fidelity can also be improved through structured expert consultation. Engaging clinicians, medical planners, and operational commanders would support refinement of treatment durations, triage logic, and evacuation thresholds. This would ensure that the simulation reflects not only doctrinal intent but also clinical realities and operational constraints.
 